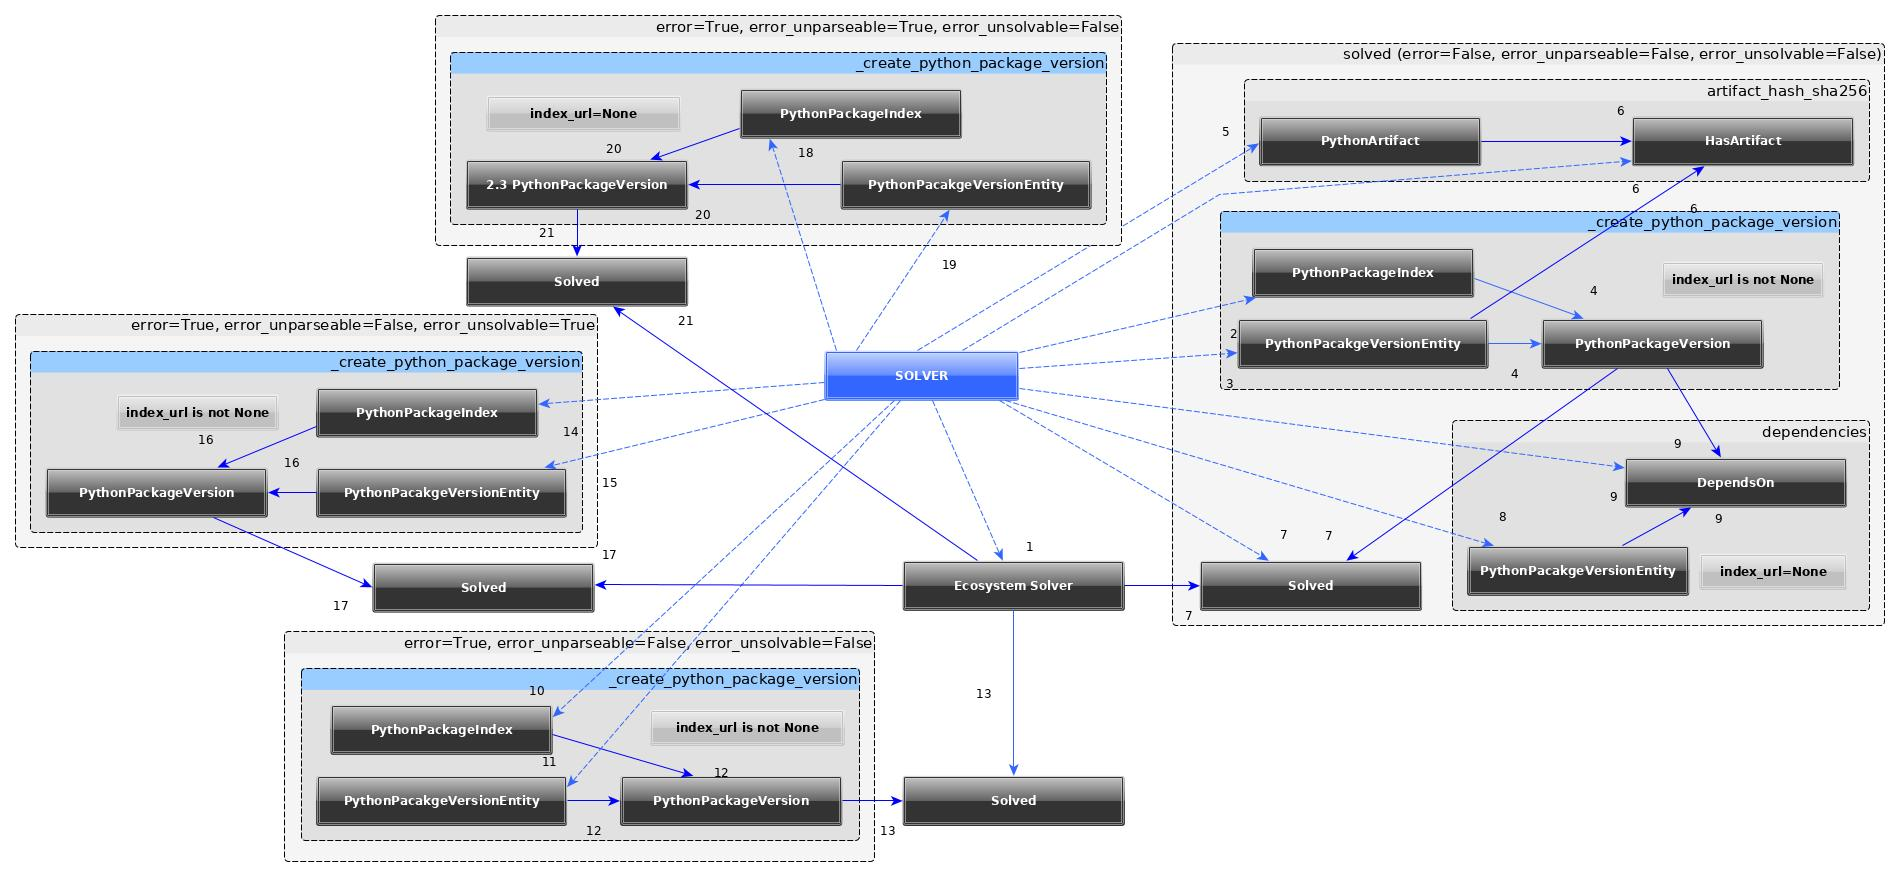
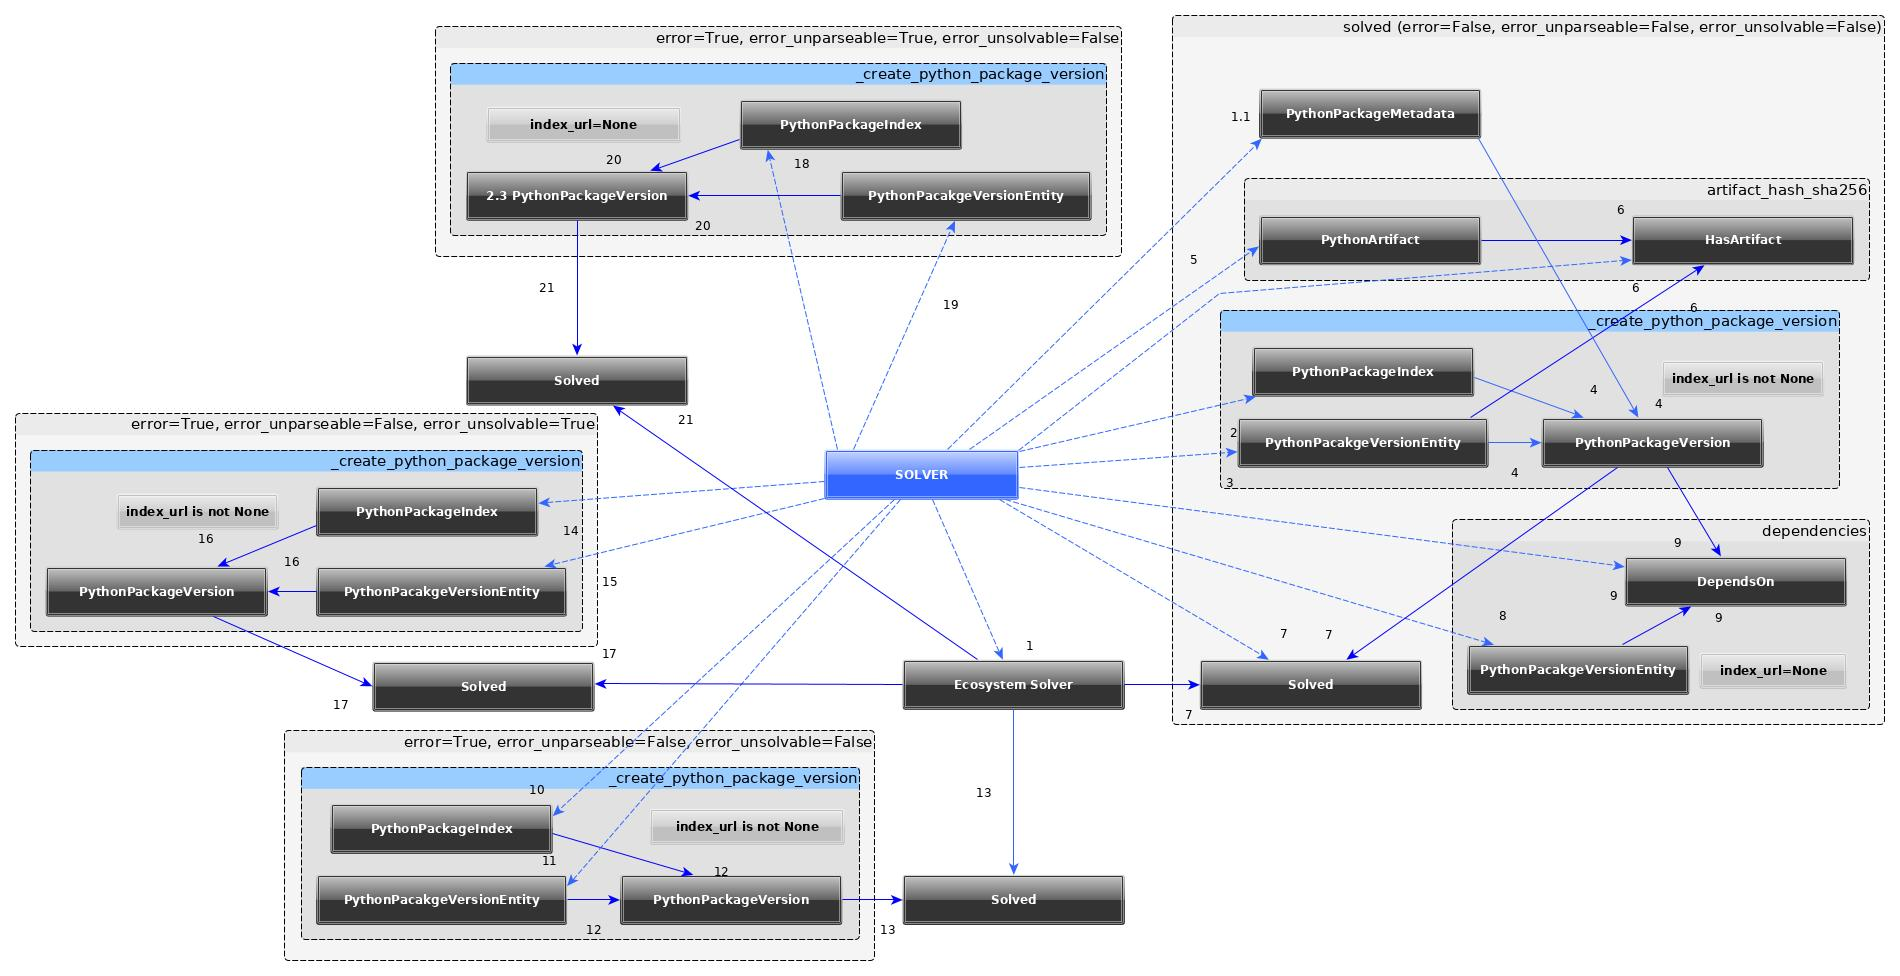
New schema and sync in Solver for PythonPackageMetadata

diff --git a/thoth/storages/graph/postgres.py b/thoth/storages/graph/postgres.py
@@ -96,6 +96,7 @@ from .models import CVE
 from .models import ExternalHardwareInformation
 from .models import ExternalSoftwareEnvironment
 from .models import ExternalPythonRequirementsLock
+from .models import PythonPackageMetadata
 from .models import ALL_MAIN_MODELS, ALL_RELATION_MODELS
 from .models_performance import PiMatmul
 from .models_performance import ALL_PERFORMANCE_MODELS, PERFORMANCE_MODEL_BY_NAME
@@ -116,6 +117,7 @@ from ..exceptions import PythonIndexNotRegistered
 from ..exceptions import PerformanceIndicatorNotRegistered
 from ..exceptions import PythonIndexNotProvided
 from ..exceptions import SolverNotRun
+from ..exceptions import PythonPackageMetadataAttributeMissing
 
 _LOGGER = logging.getLogger(__name__)
 
@@ -2659,6 +2661,7 @@ class GraphDatabase(SQLBase):
         os_version: Union[str, None],
         python_version: Union[str, None],
         index_url: Union[str, None],
+        metadata: PythonPackageMetadata = None,
         sync_only_entity: bool = False,
     ) -> PythonPackageVersion:
         """Create a Python package version.
@@ -2691,6 +2694,7 @@ class GraphDatabase(SQLBase):
                 os_version=os_version,
                 python_version=python_version,
                 entity_id=entity.id,
+                python_package_metadata_id=metadata.id if metadata else None
             )
 
         if sync_only_entity:
@@ -3349,6 +3353,7 @@ class GraphDatabase(SQLBase):
                     package_name = python_package_info["package_name"]
                     package_version = python_package_info["package_version"]
                     index_url = python_package_info["index_url"]
+                    importlib_metadata = python_package_info['importlib_metadata']["metadata"]
 
                     _LOGGER.info(
                         "Syncing solver result of package %r in version %r from %r solved by %r",
@@ -3357,6 +3362,34 @@ class GraphDatabase(SQLBase):
                         index_url,
                         solver_info,
                     )
+
+                    package_metadata, _ = PythonPackageMetadata.get_or_create(
+                        self._session,
+                        author=importlib_metadata.pop("Author", None),
+                        author_email=importlib_metadata.pop("Author-email", None),
+                        classifier=importlib_metadata.pop("Classifier", None),
+                        download_url=importlib_metadata.pop("Download-URL", None),
+                        home_page=importlib_metadata.pop("Home-page", None),
+                        keywords=importlib_metadata.pop("Keywords", None),
+                        # package licence
+                        license=importlib_metadata.pop("License", None),
+                        maintainer=importlib_metadata.pop('Maintainer', None),
+                        maintainer_email=importlib_metadata.pop('Maintainer-email', None),
+                        metadata_version=importlib_metadata.pop("Metadata-Version", None),
+                        # package name
+                        name=importlib_metadata.pop("Name", None),
+                        platform=importlib_metadata.pop("Platform", None),
+                        requires_dist=importlib_metadata.pop("Requires-Dist", None),
+                        summary=importlib_metadata.pop("Summary", None),
+                        # package version
+                        version=importlib_metadata.pop("Version", None),
+                    )
+
+                    if importlib_metadata:
+                        raise PythonPackageMetadataAttributeMissing(
+                            f"{importlib_metadata.keys()} keys not in PythonPackageMetadata."
+                            )
+
                     python_package_version = self._create_python_package_version(
                         package_name,
                         package_version,
@@ -3364,6 +3397,7 @@ class GraphDatabase(SQLBase):
                         os_version=ecosystem_solver.os_version,
                         python_version=ecosystem_solver.python_version,
                         index_url=index_url,
+                        metadata=package_metadata
                     )
 
                     for sha256 in python_package_info["sha256"]:

diff --git a/thoth/storages/graph/models.py b/thoth/storages/graph/models.py
@@ -55,11 +55,13 @@ class PythonPackageVersion(Base, BaseExtension):
     entity_id = Column(Integer, ForeignKey("python_package_version_entity.id", ondelete="CASCADE"), nullable=False)
     # Null if cannot parse.
     python_package_index_id = Column(Integer, ForeignKey("python_package_index.id", ondelete="CASCADE"), nullable=True)
+    python_package_metadata_id = Column(Integer, ForeignKey("python_package_metadata.id", ondelete="CASCADE"), nullable=True)
 
     dependencies = relationship("DependsOn", back_populates="version")
     solvers = relationship("Solved", back_populates="version")
     entity = relationship("PythonPackageVersionEntity", back_populates="python_package_versions")
     index = relationship("PythonPackageIndex", back_populates="python_package_versions")
+    python_package_metadata = relationship("PythonPackageMetadata", back_populates="python_package_versions")
 
     python_software_stacks = relationship("PythonRequirementsLock", back_populates="python_package_version")
 
@@ -1103,6 +1105,35 @@ class DetectedSymbol(Base, BaseExtension):
     versioned_symbol = relationship("VersionedSymbol", back_populates="package_extract_runs")
 
 
+class PythonPackageMetadata(Base, BaseExtension):
+    """Metadata extracted for a Python Package."""
+
+    __tablename__ = "python_package_metadata"
+
+    id = Column(Integer, primary_key=True, autoincrement=True)
+
+    author = Column(String(256), nullable=True)
+    author_email = Column(String(256), nullable=True)
+    classifier = Column(String(256), nullable=True)
+    download_url = Column(String(256), nullable=True)
+    home_page = Column(String(256), nullable=True)
+    keywords = Column(String(256), nullable=True)
+    # package licence
+    license = Column(String(256), nullable=True)
+    maintainer = Column(String(256), nullable=True)
+    maintainer_email = Column(String(256), nullable=True)
+    metadata_version = Column(String(256), nullable=True)
+    # package name
+    name = Column(String(256), nullable=True)
+    platform = Column(String(256), nullable=True)
+    requires_dist = Column(String(256), nullable=True)
+    summary = Column(String(256), nullable=True)
+    # package version
+    version = Column(String(256), nullable=True)
+
+    python_package_versions = relationship("PythonPackageVersion", back_populates="python_package_metadata")
+
+
 ALL_MAIN_MODELS = frozenset(
     (
         AdviserRun,
@@ -1124,6 +1155,7 @@ ALL_MAIN_MODELS = frozenset(
         PythonArtifact,
         PythonFileDigest,
         PythonPackageIndex,
+        PythonPackageMetadata,
         PythonPackageRequirement,
         PythonPackageVersion,
         PythonPackageVersionEntity,

diff --git a/thoth/storages/data/alembic/versions/e05d6d95ea95_added_pythonpackagemetadata_table.py b/thoth/storages/data/alembic/versions/e05d6d95ea95_added_pythonpackagemetadata_table.py
@@ -1,0 +1,50 @@
+"""Added PythonPackageMetadata table
+
+Revision ID: e05d6d95ea95
+Revises: 184e698fe2c2
+Create Date: 2019-10-15 16:59:27.902479+00:00
+
+"""
+from alembic import op
+import sqlalchemy as sa
+
+
+# revision identifiers, used by Alembic.
+revision = 'e05d6d95ea95'
+down_revision = '184e698fe2c2'
+branch_labels = None
+depends_on = None
+
+
+def upgrade():
+    # ### commands auto generated by Alembic - please adjust! ###
+    op.create_table('python_package_metadata',
+    sa.Column('id', sa.Integer(), autoincrement=True, nullable=False),
+    sa.Column('author', sa.String(length=256), nullable=True),
+    sa.Column('author_email', sa.String(length=256), nullable=True),
+    sa.Column('classifier', sa.String(length=256), nullable=True),
+    sa.Column('download_url', sa.String(length=256), nullable=True),
+    sa.Column('home_page', sa.String(length=256), nullable=True),
+    sa.Column('keywords', sa.String(length=256), nullable=True),
+    sa.Column('license', sa.String(length=256), nullable=True),
+    sa.Column('maintainer', sa.String(length=256), nullable=True),
+    sa.Column('maintainer_email', sa.String(length=256), nullable=True),
+    sa.Column('metadata_version', sa.String(length=256), nullable=True),
+    sa.Column('name', sa.String(length=256), nullable=True),
+    sa.Column('platform', sa.String(length=256), nullable=True),
+    sa.Column('requires_dist', sa.String(length=256), nullable=True),
+    sa.Column('summary', sa.String(length=256), nullable=True),
+    sa.Column('version', sa.String(length=256), nullable=True),
+    sa.PrimaryKeyConstraint('id')
+    )
+    op.add_column('python_package_version', sa.Column('python_package_metadata_id', sa.Integer(), nullable=True))
+    op.create_foreign_key(None, 'python_package_version', 'python_package_metadata', ['python_package_metadata_id'], ['id'], ondelete='CASCADE')
+    # ### end Alembic commands ###
+
+
+def downgrade():
+    # ### commands auto generated by Alembic - please adjust! ###
+    op.drop_constraint(None, 'python_package_version', type_='foreignkey')
+    op.drop_column('python_package_version', 'python_package_metadata_id')
+    op.drop_table('python_package_metadata')
+    # ### end Alembic commands ###

diff --git a/thoth/storages/exceptions.py b/thoth/storages/exceptions.py
@@ -60,3 +60,7 @@ class PythonIndexNotProvided(ThothStorageException):
 
 class SolverNotRun(ThothStorageException):
     """Raised if an attempt to insert a package which was not solved."""
+
+
+class PythonPackageMetadataAttributeMissing(ThothStorageException):
+    """Raised if a Python Package metadata attribute is not included in the class attributes."""
